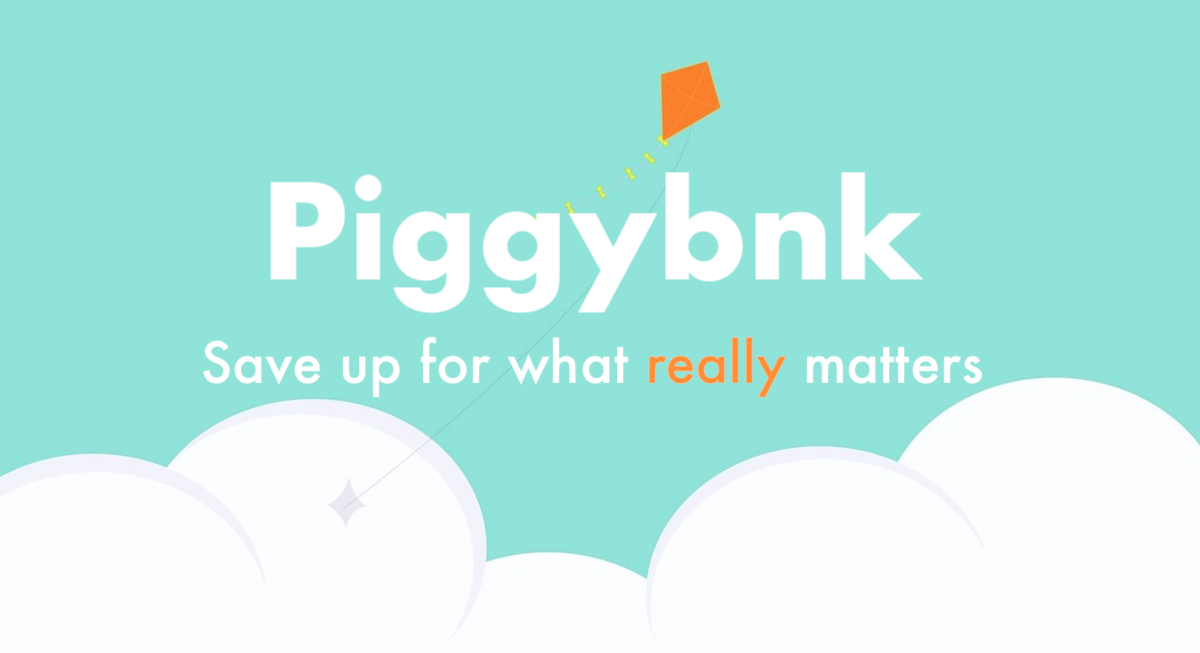
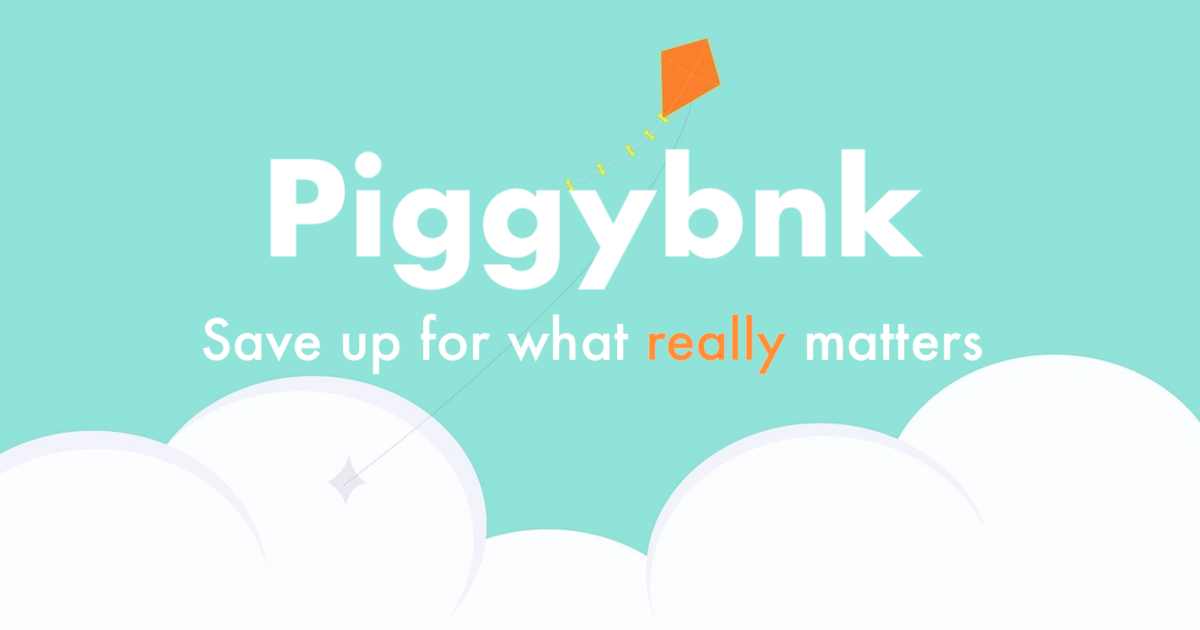
changed meta image size and added custom error pages

diff --git a/public/503.html b/public/503.html
@@ -229,23 +229,24 @@
   <body class="plain error-page-wrapper background-color background-image">
     <div class="content-container">
 	<div class="head-line secondary-text-color">
-		404
+		503
 	</div>
 	<div class="subheader primary-text-color">
-		Oops, the page you're <br>
-		looking for does not exist.
+		Looks like we're having <br>
+		some server issues.
 	</div>
-	<hr>
-	<div class="clearfix"></div>
-	<div class="context primary-text-color">
-		<!-- doesn't use context_content because it's ALWAYS the same thing -->
+    <hr>
+    <div class="clearfix"></div>
+    <div class="context primary-text-color">
+      
     <p>
-      You may want to head back to the homepage.<br />
+      Go back to the previous page and try again.
       If you think something is broken, report a problem.
     </p>
-	</div>
+
+
+    </div>
 	<div class="buttons-container">
-		<a class="border-button" href="http://www.piggybnk.cool" target="_blank">Go To Homepage</a>
 		<a class="border-button" href="mailto:lolabarbierhoffenbach@gmail." target="_blank">Report A Problem</a>
 	</div>
 </div>
@@ -355,7 +356,7 @@
        });
 
      };
-     var ep = new ErrorPage('body', "404", "plain");
+     var ep = new ErrorPage('body', "503", "plain");
      ep.initialize();
 
      // hack to make sure content stays centered >_<
